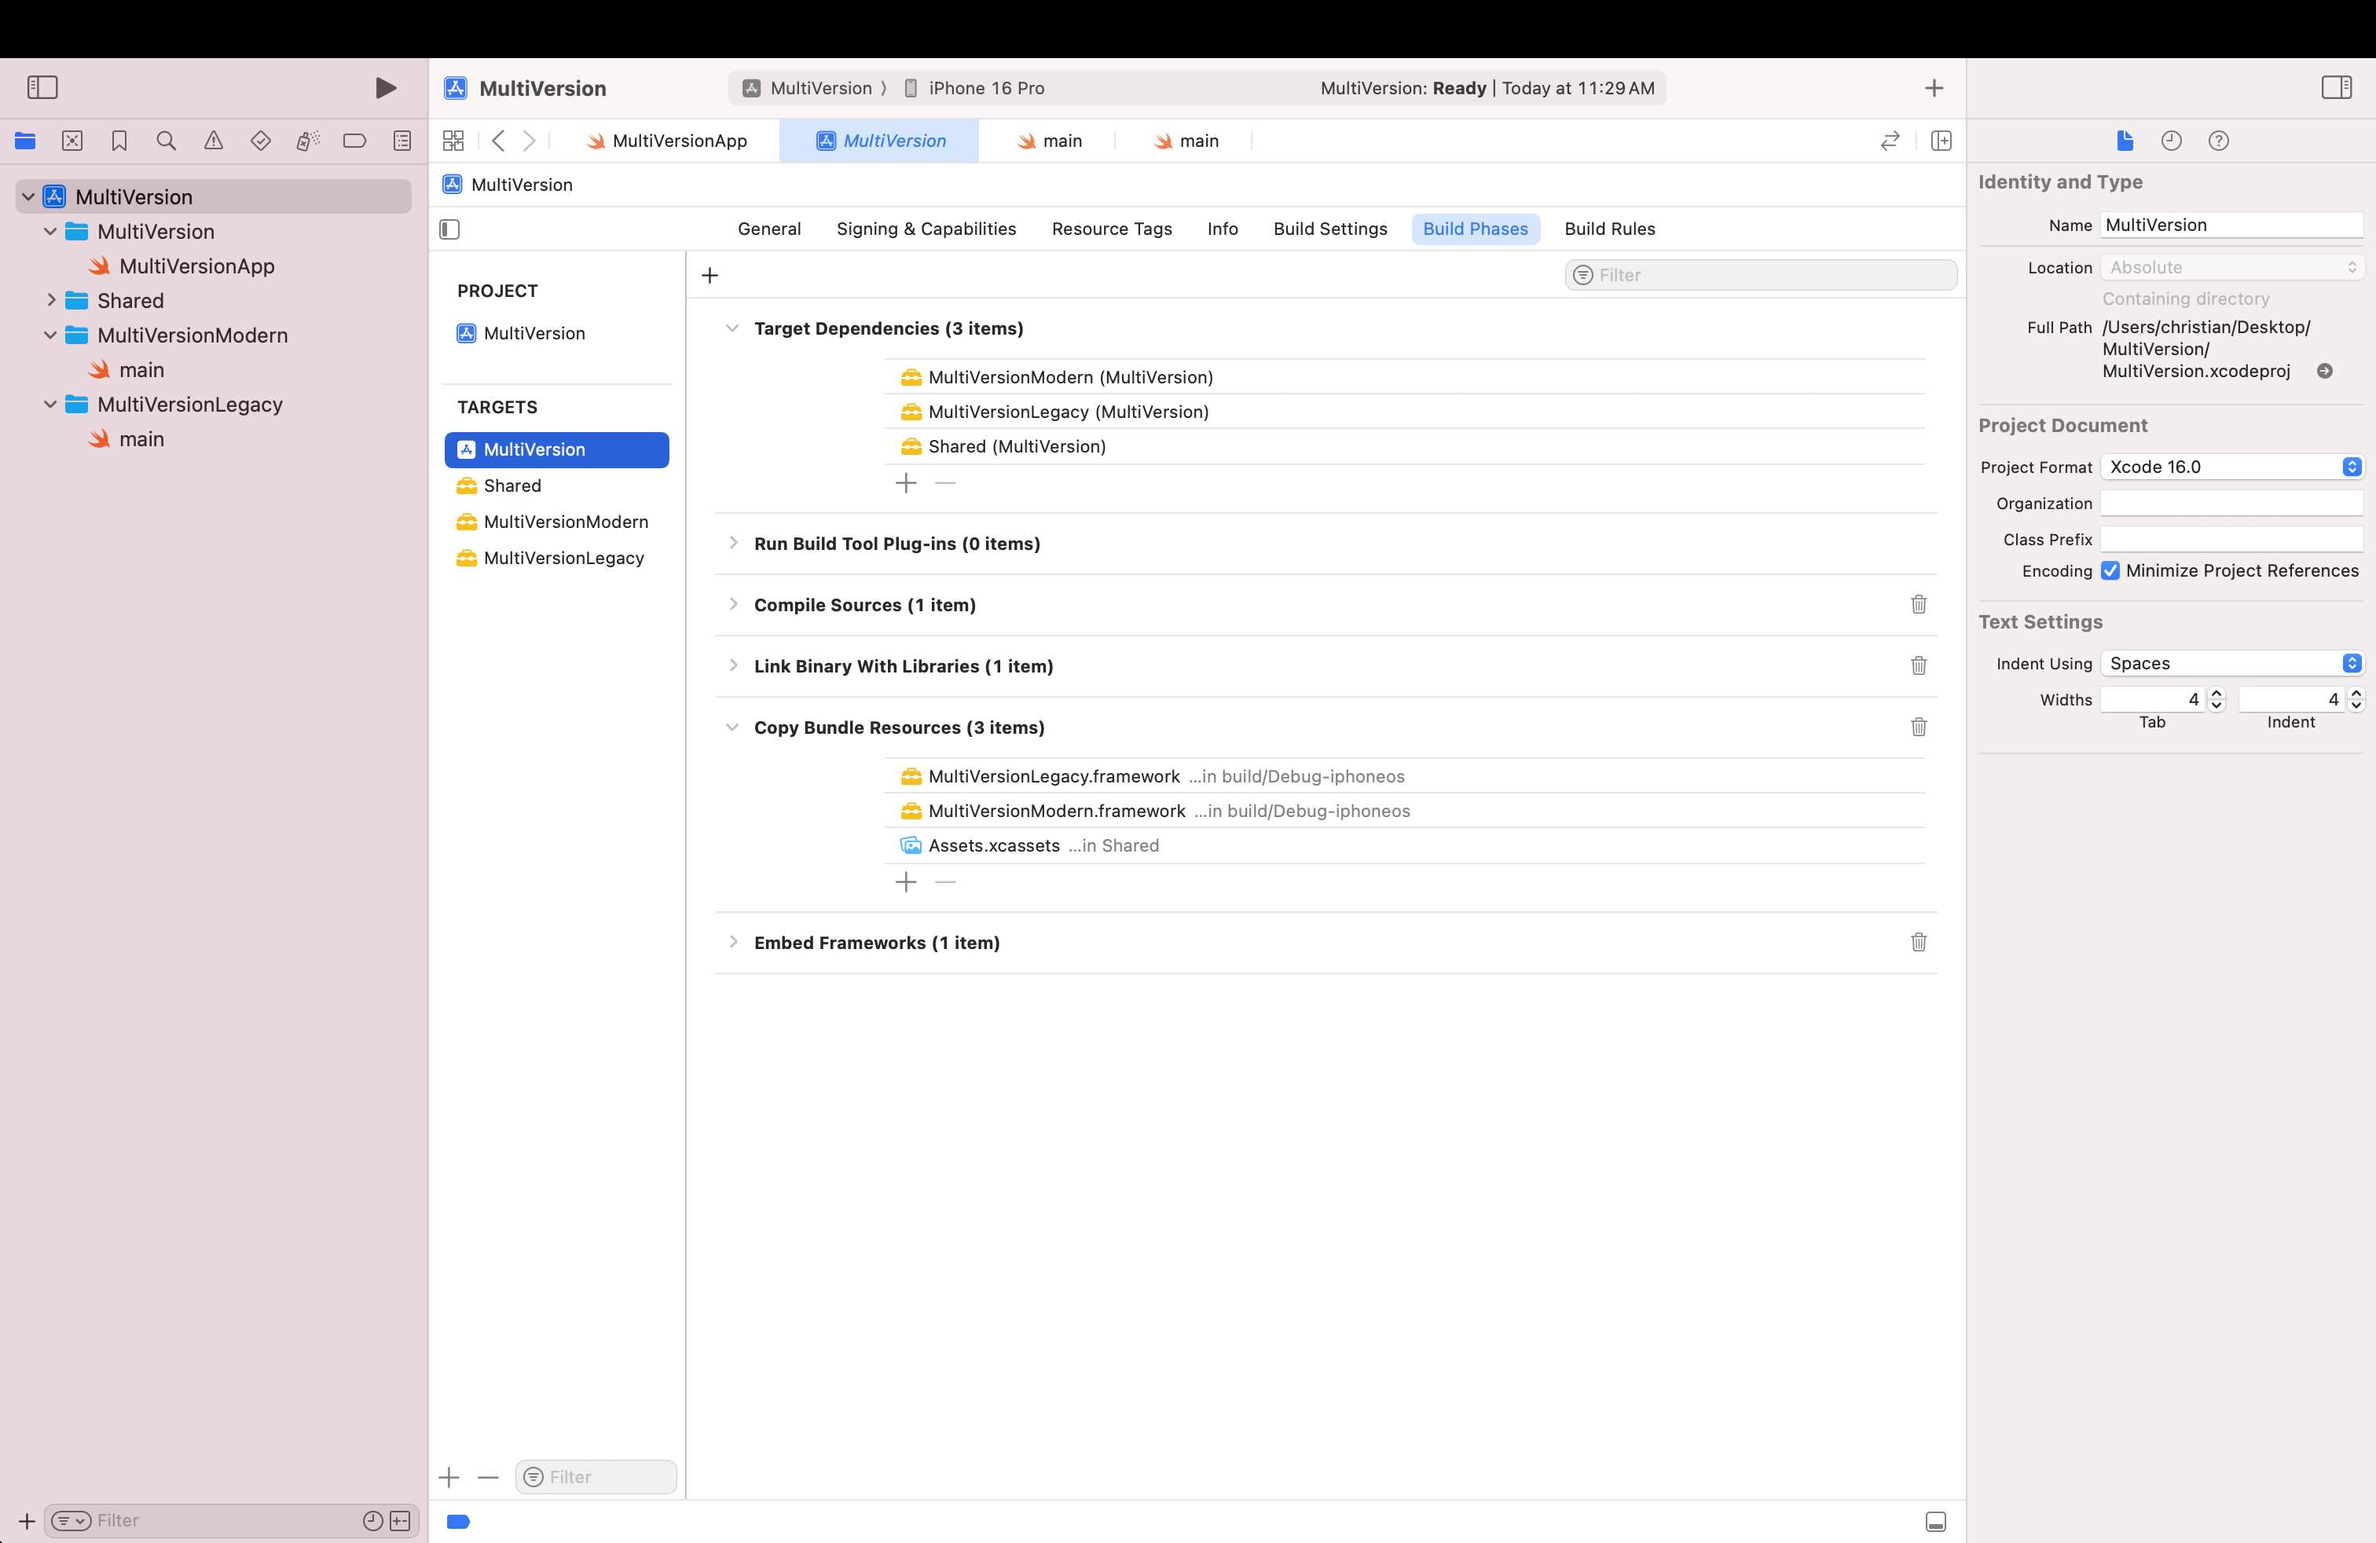
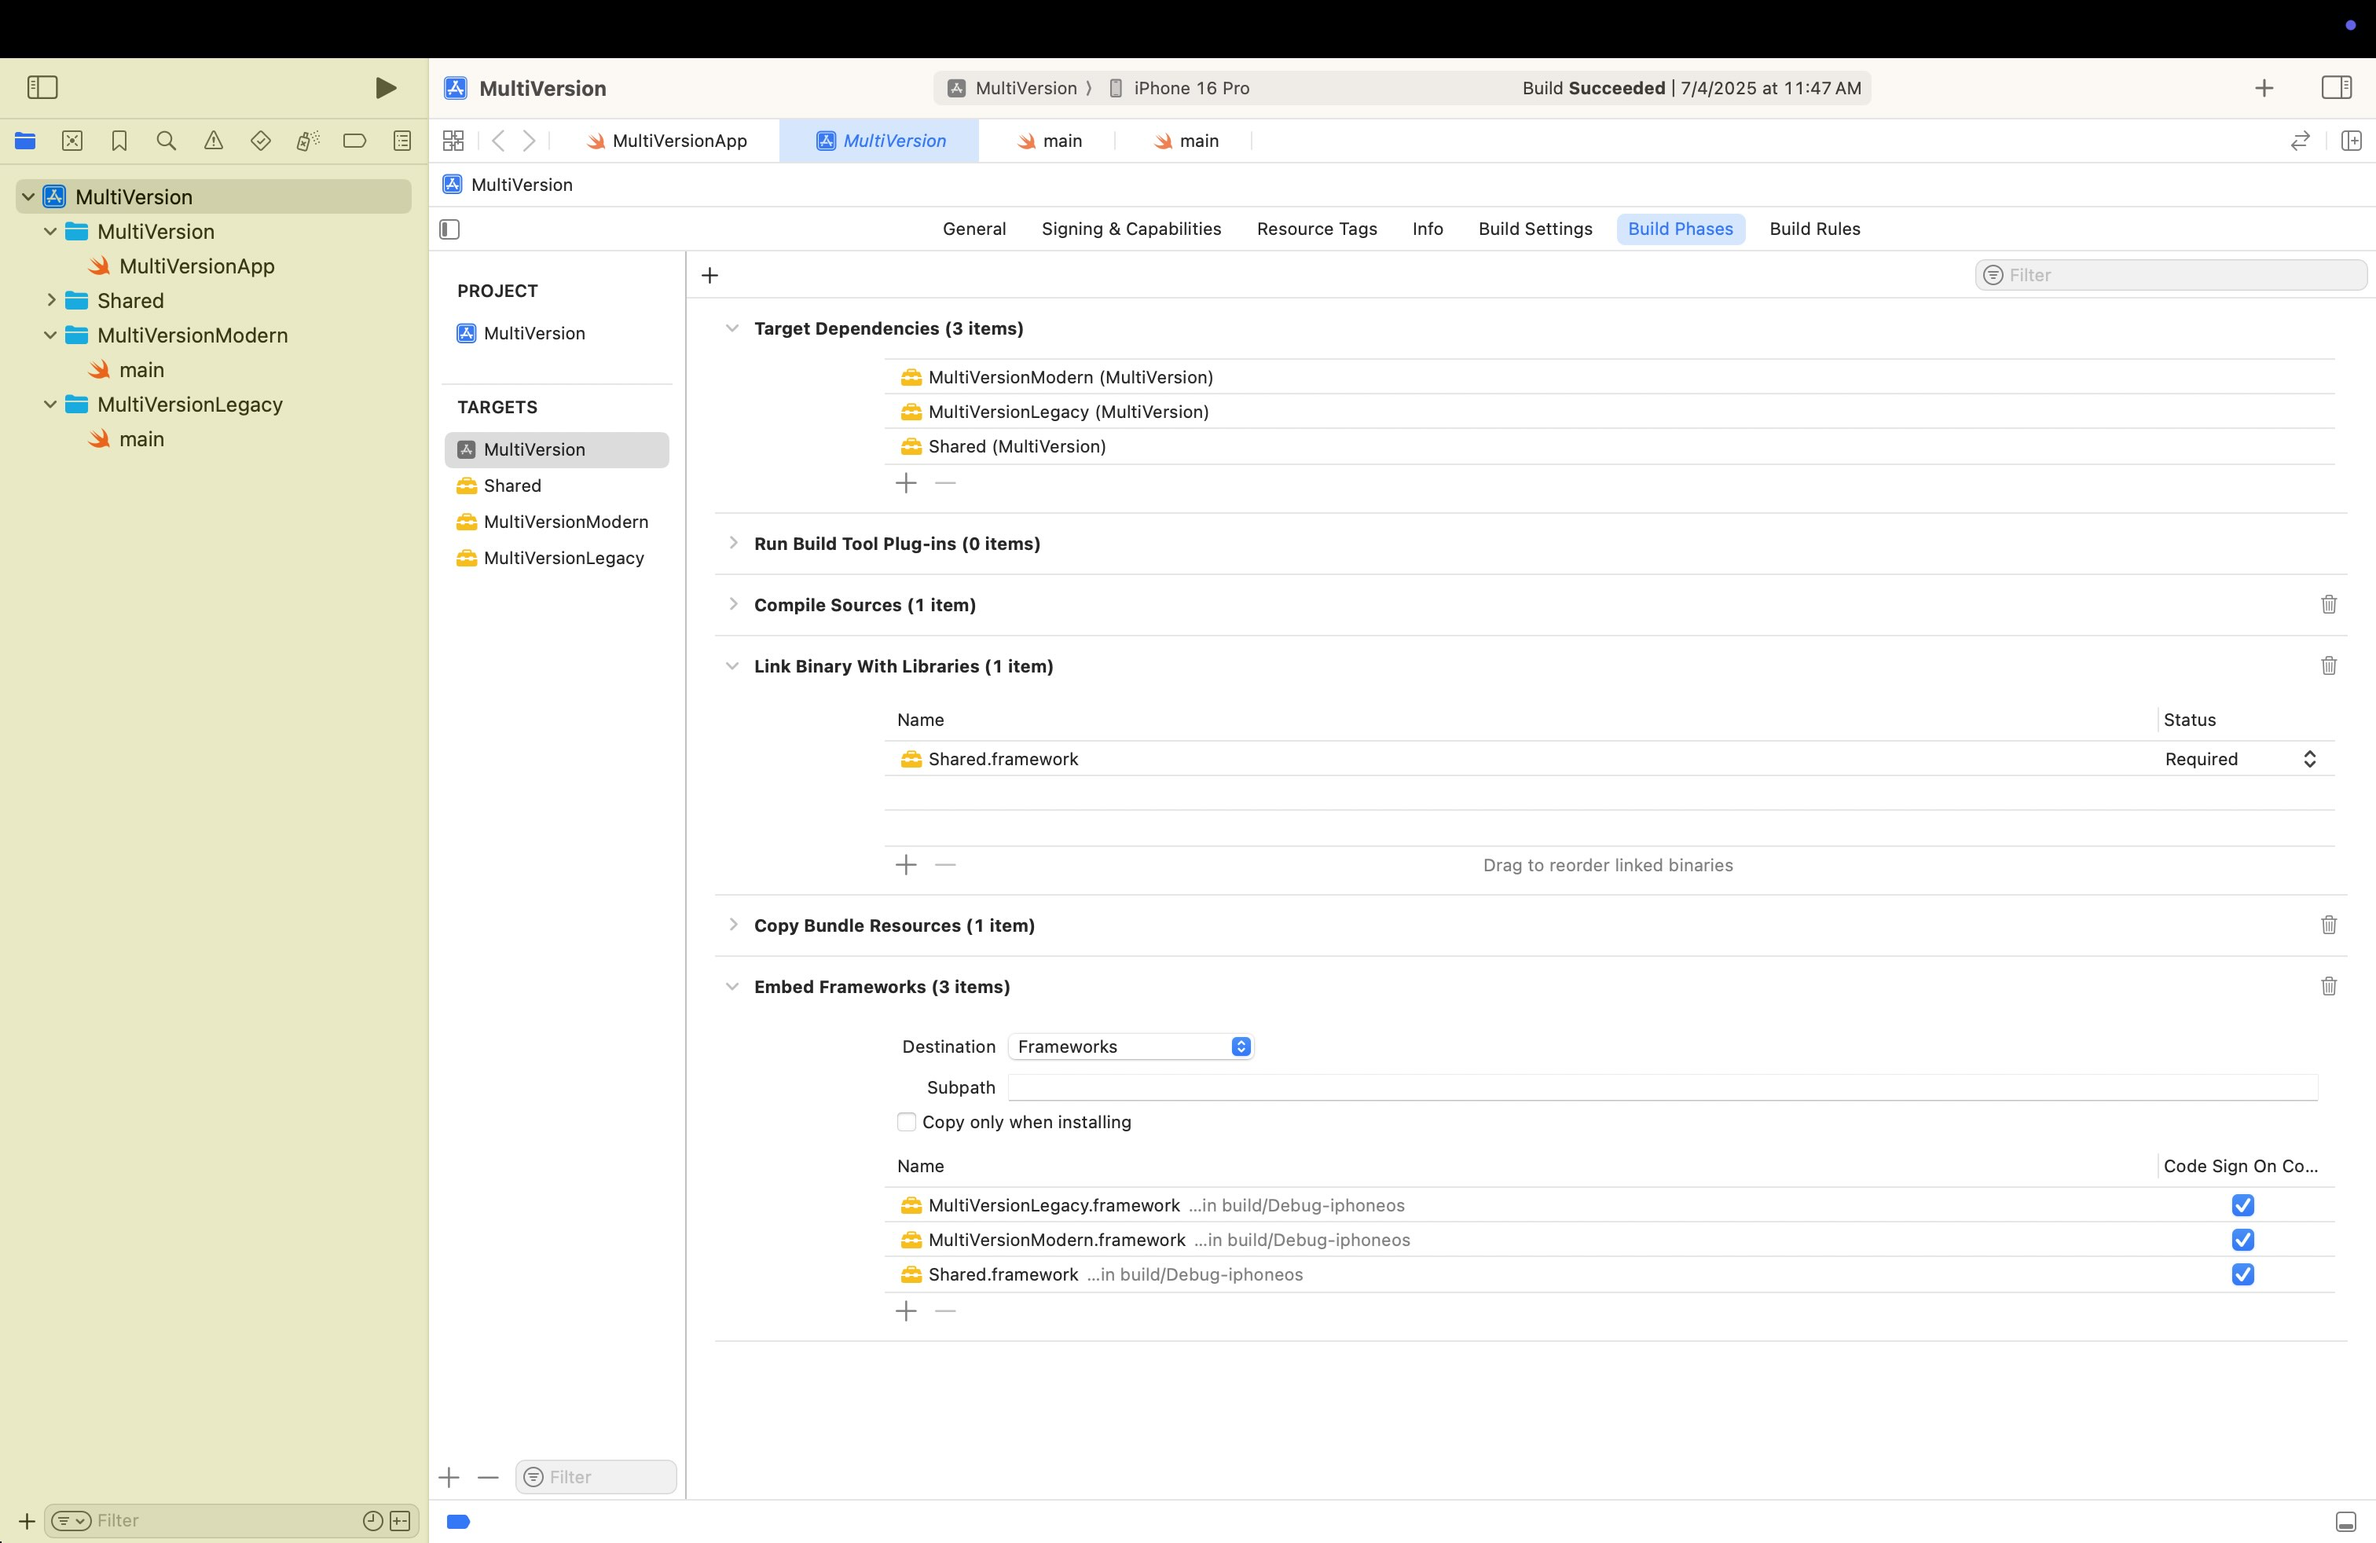
update dynamic frameworks

diff --git a/dynamic-frameworks.html b/dynamic-frameworks.html
@@ -46,9 +46,11 @@
         <img src="assets/dynamic-frameworks/img1.jpg">
         <img src="assets/dynamic-frameworks/img2.jpg">
 
-        <p>Now move over your <code>Assets.xcassets</code>, any resources, and all your shared logic into this framework.
-            You’ll need to make sure everything you want exposed is public, which may take some time. Approach this with a
-            decent level of patience—it’s gonna get a little tedious.</p>
+        <p>Now move over any resources and all your shared logic into this framework.
+            You’ll need to make sure everything you want exposed is public, which may take some time. 
+            Approach this with a decent level of patience—it’s gonna get a little tedious. 
+            You might choose to keep your xcassets inside your main application still so that you don’t have to 
+            specify the bundle when creating images.</p>
 
         <h2>Creating the Legacy and Modern Code Base</h2>
 
@@ -69,14 +71,15 @@
 
         <p>Because we set <em>Embed in Application</em> to None, the frameworks won’t be included in your bundle whatsoever.
             Add them under your main target in <strong>Build Phases</strong> and then <strong>Target Dependencies</strong>
-            and <strong>Copy Bundle Resources</strong>. Adding your frameworks under target dependencies will make sure they
+            and <strong>Embed Frameworks</strong>. Adding your frameworks under target dependencies will make sure they
             are built in the same build process as your main target, but won’t explicitly link them. This is what we want.
-            Adding them under copy bundle resources will copy the <code>.framework</code> file to your main bundle where we
-            can load them dynamically at runtime.</p>
+            Adding them under embed frameworks will copy the <code>.framework</code> file to your main bundle where we
+            can load them dynamically at runtime. If you run into issues, ensure Link Binary With Libraries only has your Shared framework(s)!</p>
 
         <img src="assets/dynamic-frameworks/img4.jpg">
 
-        <p>Also make sure to add your "Shared" framework under <strong>General > Frameworks and Libraries</strong> for each of your frameworks.</p>
+        <p>In order for your legacy and modern framework to access your shared code, you’ll need to add your shared frameworks under 
+            General > Frameworks and Libraries. Make sure you set <strong>Do Not Embed</strong> however, since they are already embedded in the main app, and you don’t want to duplicate symbols and resources.</p>
 
         <h2>Loading the Correct Framework Depending on the User's Actual iOS Version at Runtime</h2>
 
